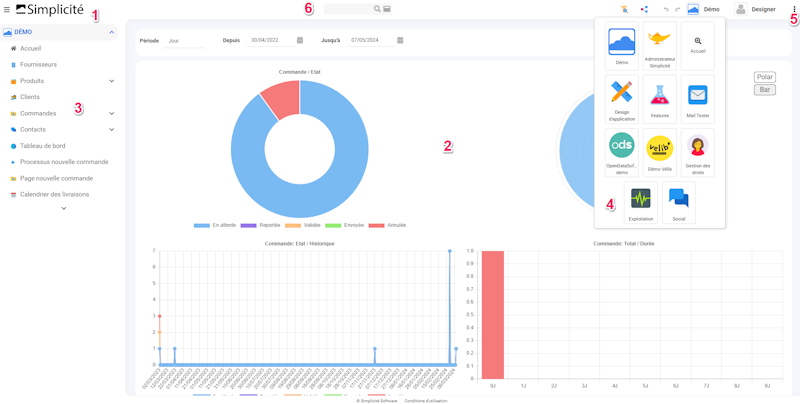
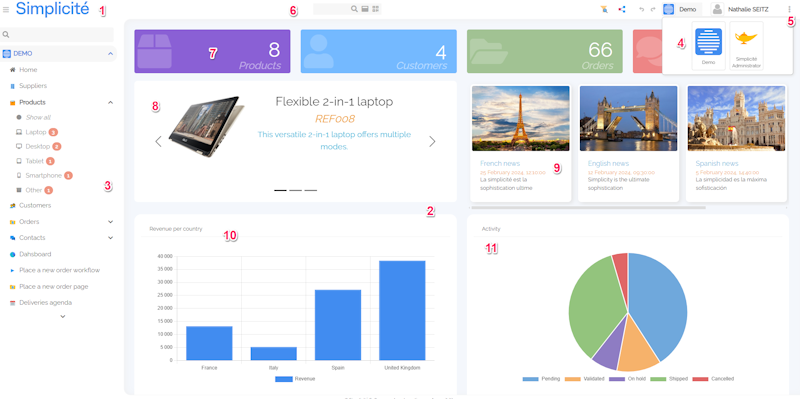
V6

diff --git a/content/CTG_50_docs/CTG_10_ui/LSN_10_basic-usage/basic-usage.md b/content/CTG_50_docs/CTG_10_ui/LSN_10_basic-usage/basic-usage.md
@@ -8,12 +8,18 @@ This document explains the basic usage principles of the generic web user interf
 ![](homepage4.png)
 
 1 - Return to Home Page    
-2 - Work area with last consulted items  
+2 - Work area with UI components  
 3 - Menu  
 4 - Change scope  
 5 - Shortcuts  
 6 - Global search  
-  
+7 - UI widget (Counter external object > V6)  
+8 - UI widget (Carousel external object > V6)    
+9 - UI widget (Cards external object > V6)    
+10 - Crosstab displayed as a chart  
+11 - Crosstab displayed as a chart  
+
+   
 ### Search, list and form pages
 
 ![](searchlistform4.png)
